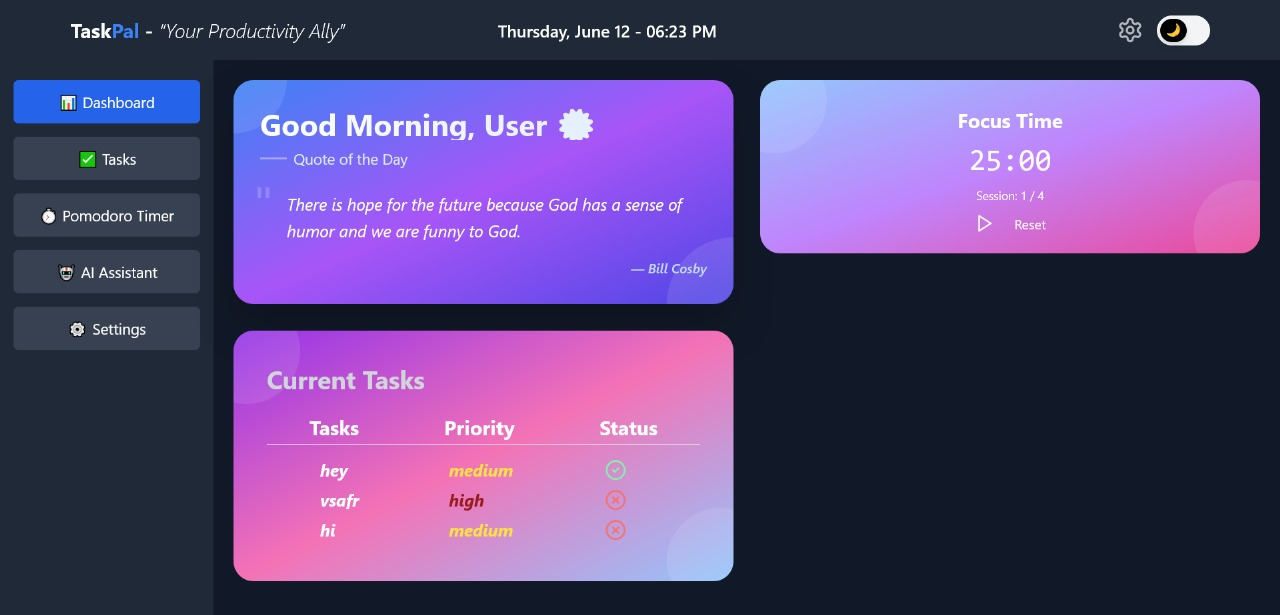
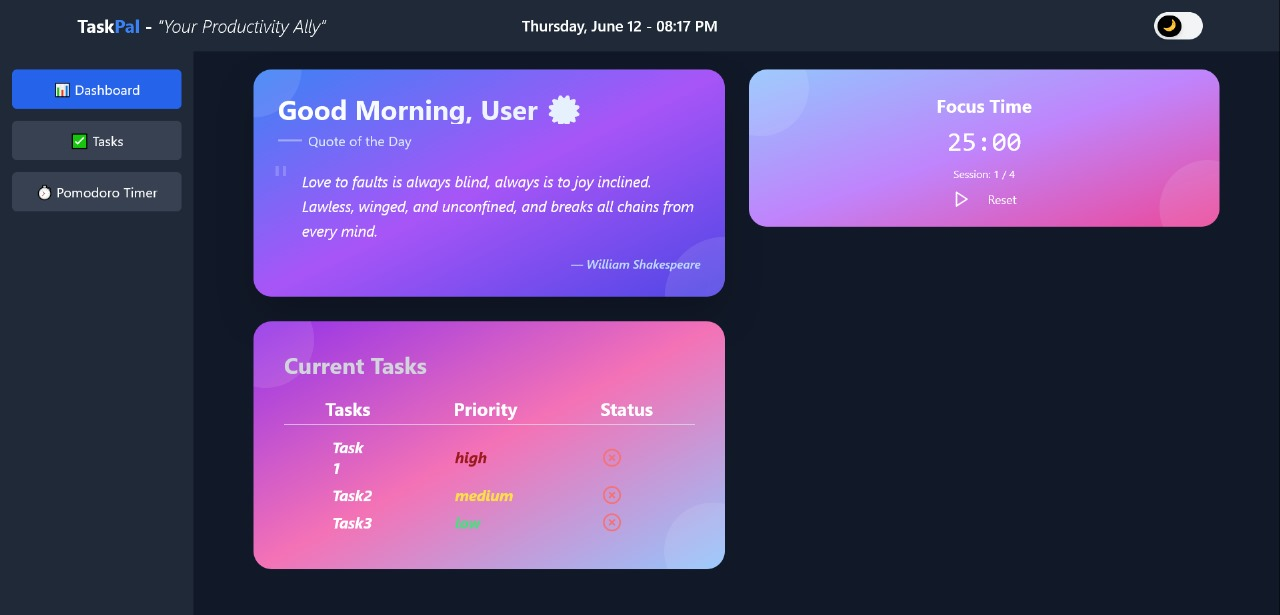
ss

diff --git a/src/App.jsx b/src/App.jsx
@@ -5,10 +5,8 @@ import './style.css';
 import Dashboard from './components/DashBoard';
 import SideBar from './components/SideBar';
 import Tasks from './components/Tasks';
-import Ai_page from './components/ai_page';
-import { Settings } from 'lucide-react';
 import Pomodoro from './components/Pomodoro';
-import Setting from './components/Settings';
+
 
 function App() {
   const [isLightTheme, setLightTheme] = useState(false)
@@ -39,7 +37,6 @@ function App() {
           <Routes>
             <Route path='/' element={<Dashboard isLightTheme={isLightTheme} tasks={task}/>}  />
             <Route path='/tasks' element={<Tasks isLightTheme={isLightTheme} setTask={setTask} tasks={task}/>}  />
-            <Route path='/ai' element={<Ai_page/>}  />
             
             <Route path='/pomodoro' element={<Pomodoro isLightTheme={isLightTheme}/>}   />
           </Routes>

diff --git a/src/components/SideBar.jsx b/src/components/SideBar.jsx
@@ -9,8 +9,6 @@ export default function SideBar({ isLightTheme }) {
     { to: "/", label: "Dashboard", icon: "📊" },
     { to: "/tasks", label: "Tasks", icon: "✅" },
     { to: "/pomodoro", label: "Pomodoro Timer", icon: "⏱" },
-    { to: "/ai", label: "AI Assistant", icon: "🤖" },
-    // { to: "/settings", label: "Settings", icon: "⚙" }
   ];
 
   return (
